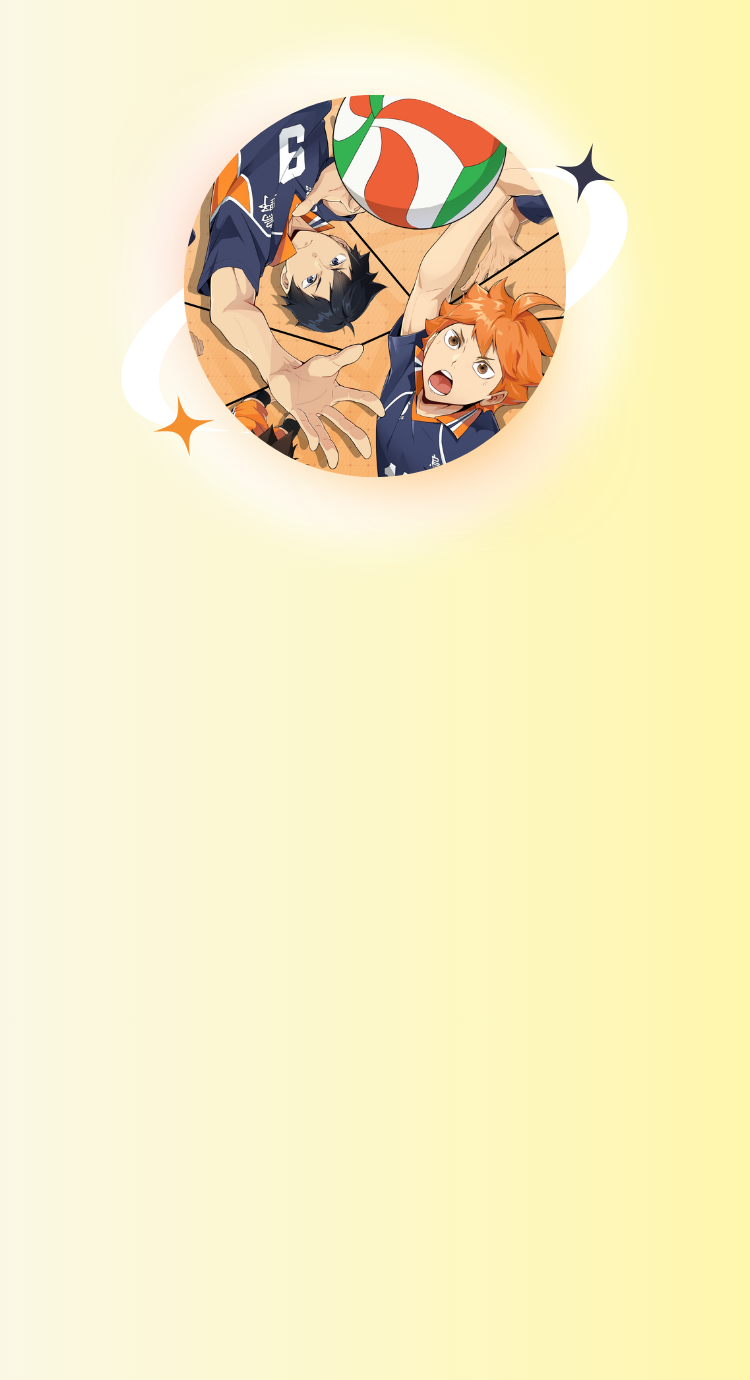
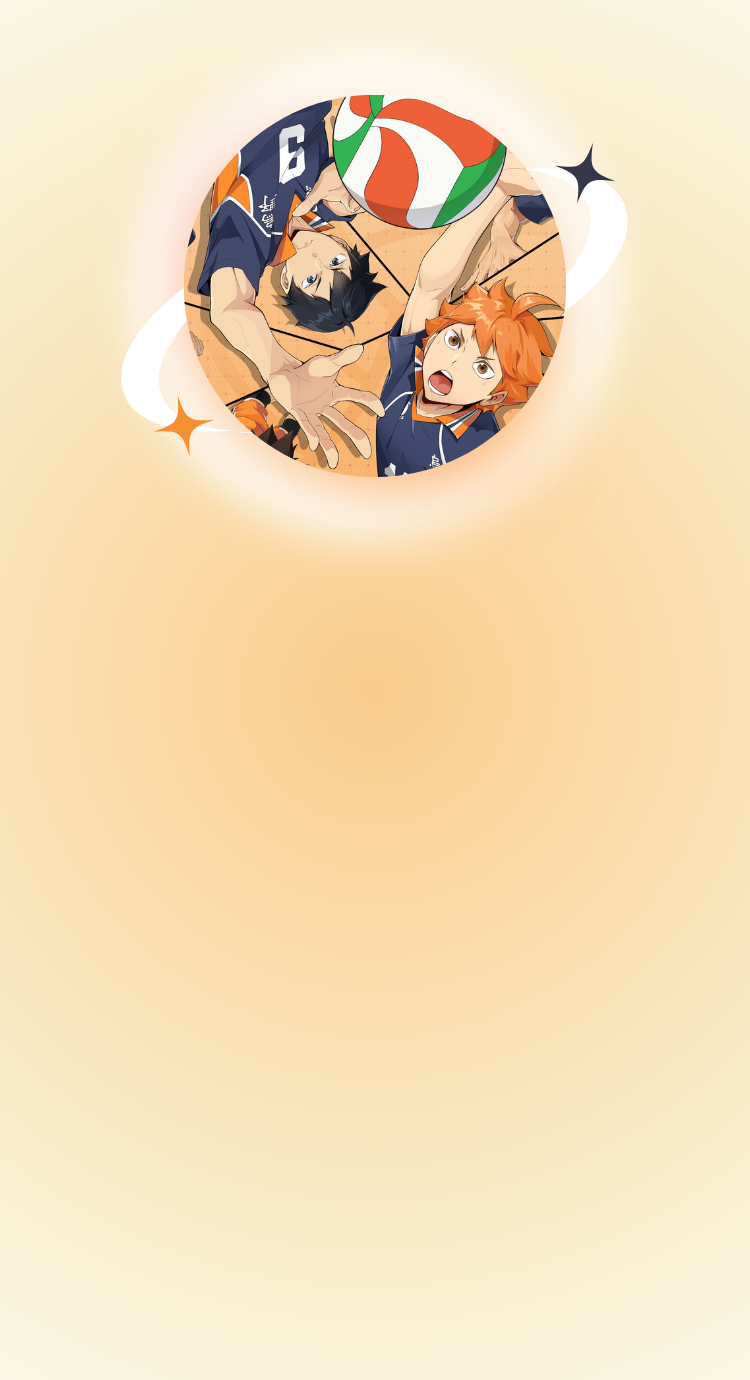
new hero fixed

diff --git a/css/style.css b/css/style.css
@@ -227,14 +227,14 @@ a {
 
 @media (max-width: 820px) {
   .hero {
-    margin-top: 4rem;
+    margin-top: 2rem;
     flex-direction: column;
     justify-content: center;
     text-align: center;
     padding: 4rem 5%;
     background-size: cover; 
     background-position: top center;
-    background-image: url("../assets/hero-mobile.png");
+    background-image: url("../assets/hero-mobile.png"), linear-gradient(95deg, #f9cd8c, #faf8e4);
   }
 
   .hero-text {
